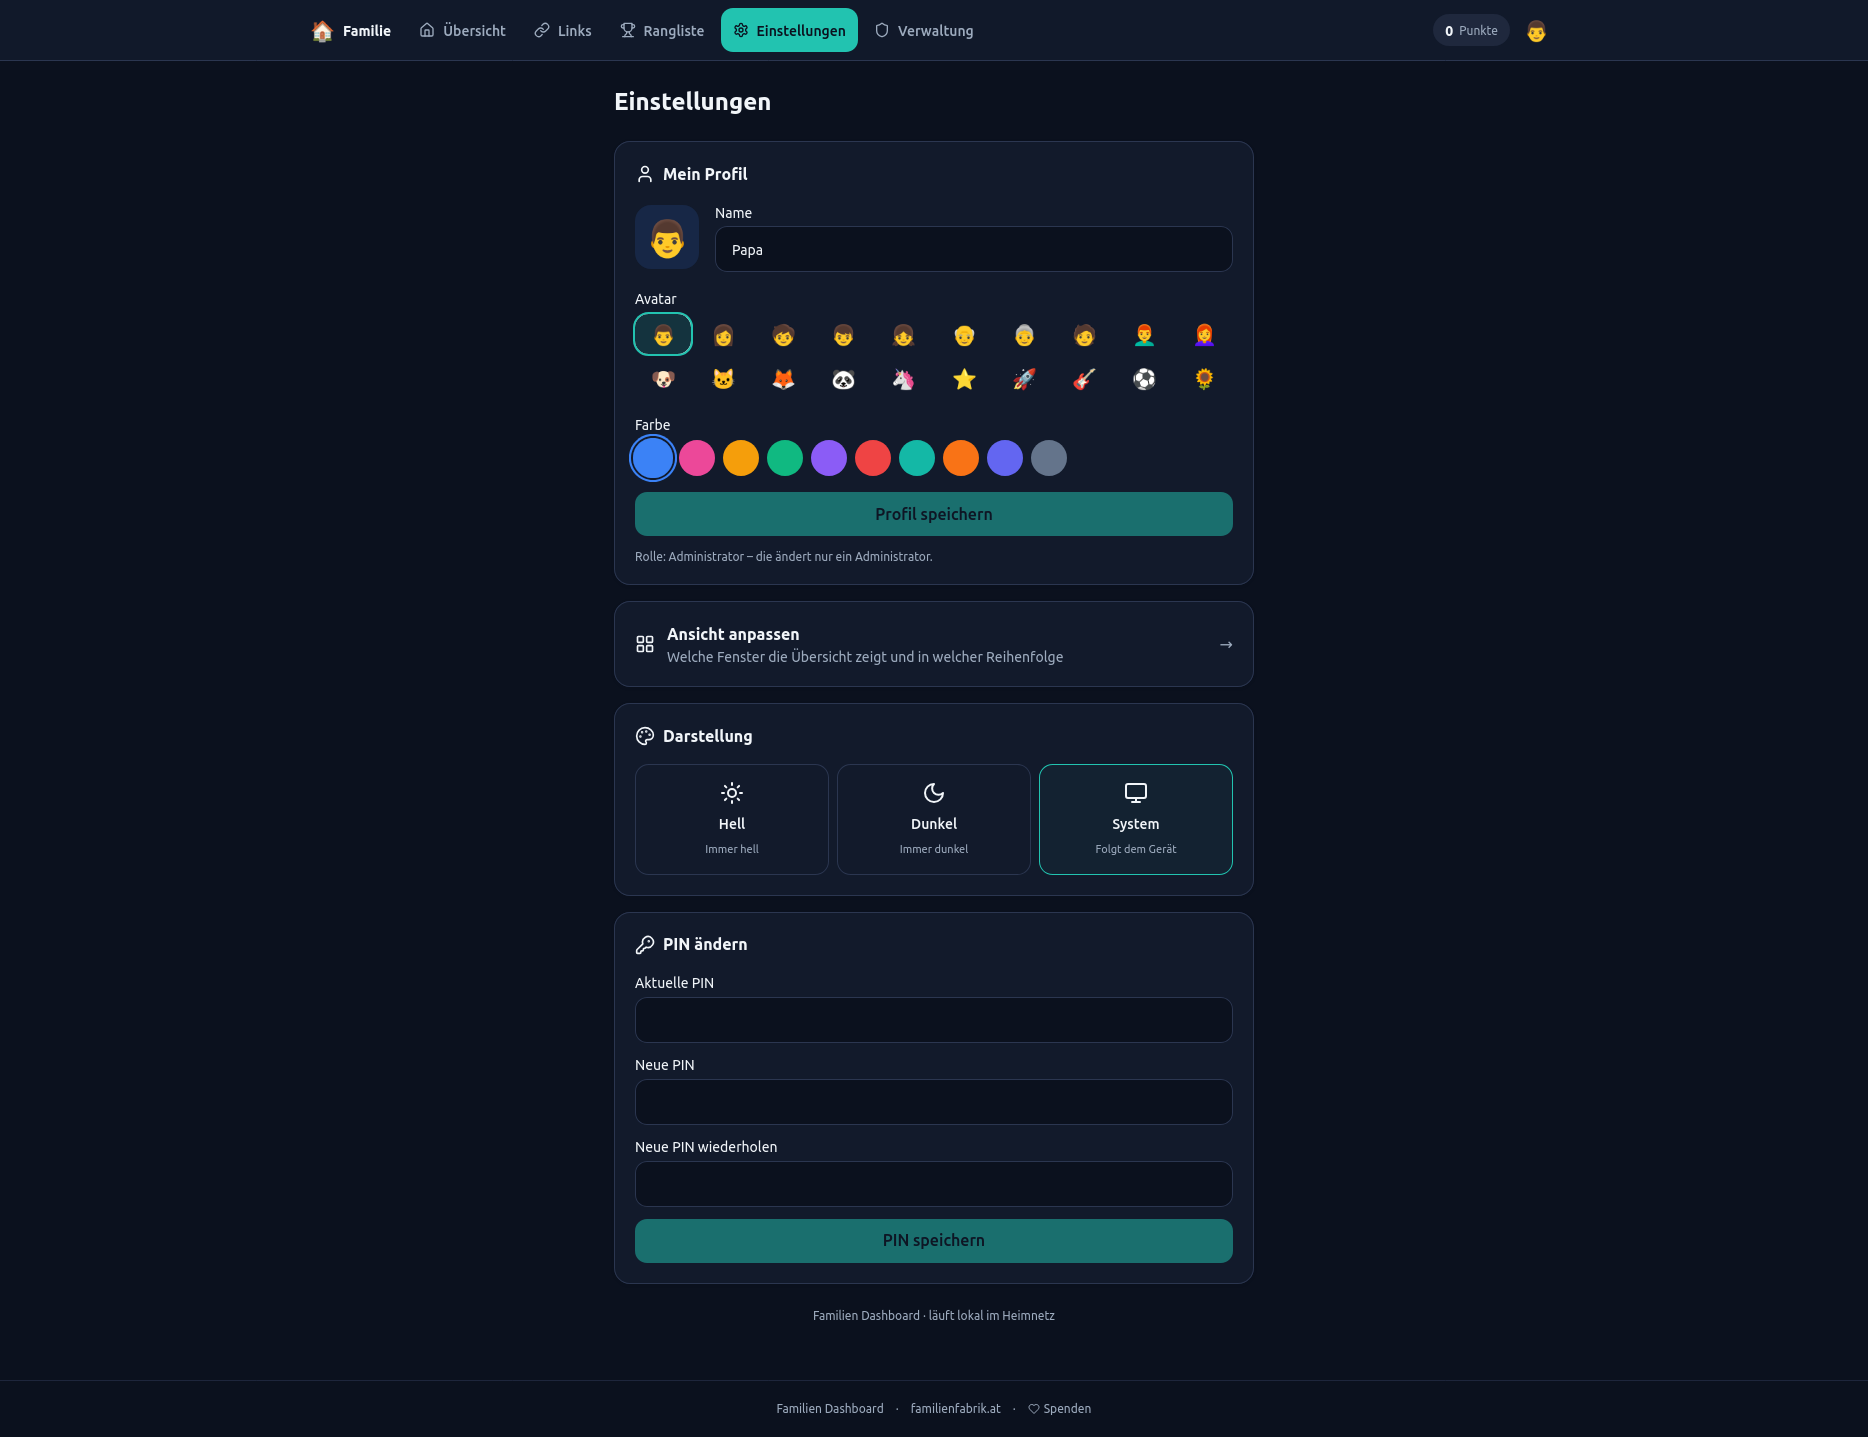
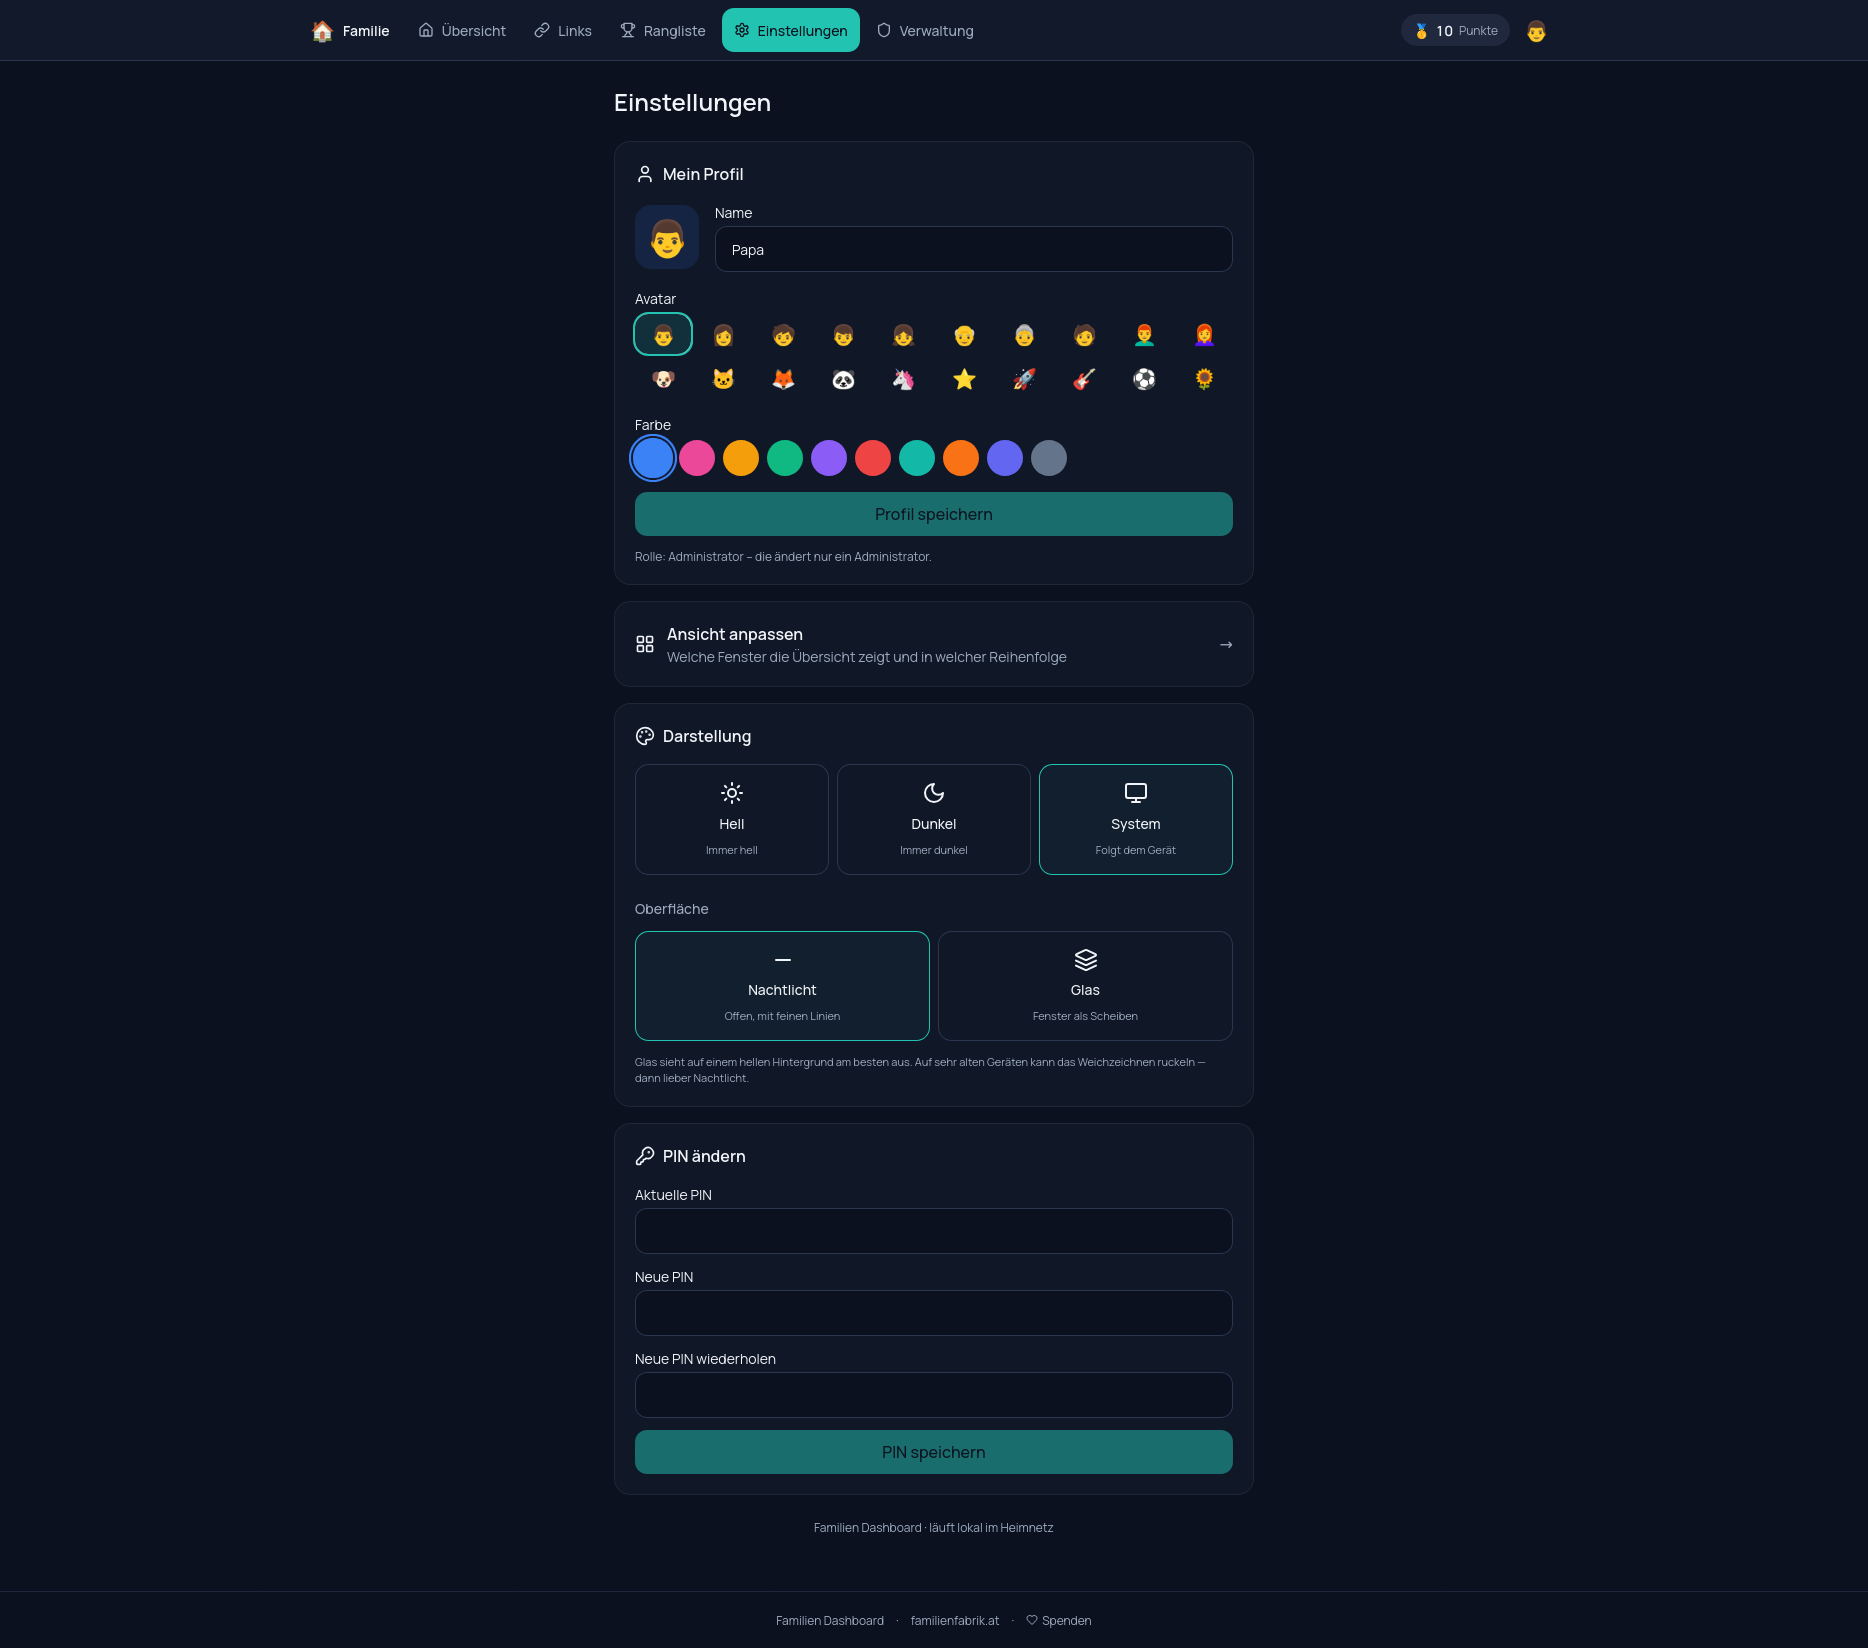
Neue Screenshots im README
Die bisherigen Bilder waren von vorgestern und zeigten die Fassung mit
Kästen und harten Rahmen. Nach dem Umbau der Oberfläche stimmte das nicht
mehr: Wer auf die GitHub-Seite kam, sah etwas anderes als das, was er
herunterlädt.

Sebastian hat fünf neue geliefert. Ich habe jedes einzeln angesehen,
bevor es hier landet — keine IP-Adresse, keine echten Fotos, der
Wetterort steht als "Zuhause" statt als Stadt.

Die Galerie zeigt jetzt die Übersicht auf einem breiten Bildschirm mit
vier Spalten als Aufmacher, dazu dieselbe Ansicht in drei Spalten,
Anmeldung, Rangliste und die Einstellungen mit der Wahl zwischen den
Oberflächen.

diff --git a/README.md b/README.md
@@ -68,9 +68,10 @@ solange es im eigenen, vertrauenswürdigen Netz bleibt.
 
 ## So sieht es aus
 
-Die Startseite. Jeder ordnet sich die Fenster selbst an.
+Die Übersicht auf einem breiten Bildschirm. Wetter mit Regenzeit, Punktestand
+quer über der Seite, darunter die Fenster — jeder ordnet sie sich selbst an.
 
-![Die Startseite mit Aufgaben, Einkaufsliste, Kalender, Links, Notizen, Foto-Rahmen und Geräte-Status](docs/screenshots/Dashboard.png)
+![Die Übersicht mit Aufgaben, Einkaufsliste, Kalender, Countdowns, Notizen, Foto-Rahmen, Links und Geräte-Status](docs/screenshots/Familien_Dashboard.png)
 
 <table>
 <tr>
@@ -87,38 +88,35 @@ Antippen, PIN, fertig. Keine E-Mail, kein Konto.
 
 **Rangliste**
 
-Level, Serien und Abzeichen für erledigte Aufgaben.
+Siegertreppchen, Level, Abzeichen und wer zuletzt was erledigt hat.
 
-<img src="docs/screenshots/Rangliste.png" alt="Rangliste mit Punkten, Leveln und Abzeichen">
+<img src="docs/screenshots/Rangliste.png" alt="Rangliste mit Siegertreppchen, Punkten, Abzeichen und Verlauf">
 
 </td>
 </tr>
 <tr>
 <td width="50%">
 
-**Links**
+**Einstellungen**
 
-Lesezeichen mit Kategorien, angepinnte landen auf der Startseite.
+Name, Avatar, Farbe und PIN ändert jeder selbst. Dazu hell oder dunkel und
+die Wahl zwischen den Oberflächen *Nachtlicht* und *Glas*.
 
-<img src="docs/screenshots/Links.png" alt="Linkverwaltung mit Kategorien und Anpinn-Funktion">
+<img src="docs/screenshots/Einstellungen.png" alt="Einstellungen mit Profil, Avatarauswahl, Darstellung, Oberfläche und PIN-Änderung">
 
 </td>
 <td width="50%">
 
-**Einstellungen**
+**Auf einem schmaleren Bildschirm**
 
-Name, Avatar, Farbe und PIN ändert jeder selbst.
+Dieselbe Übersicht in drei Spalten. Auf dem Handy rutschen die Fenster
+untereinander.
 
-<img src="docs/screenshots/Einstellungen.png" alt="Einstellungen mit Profil, Avatarauswahl, Darstellung und PIN-Änderung">
+<img src="docs/screenshots/Dashboard_Papa.png" alt="Die Übersicht in drei Spalten">
 
 </td>
 </tr>
 </table>
-
-**Verwaltung** — Familienmitglieder anlegen, Punkte gutschreiben oder abziehen,
-wenn sich jemand verklickt hat.
-
-![Adminbereich mit Familienmitgliedern und Punkteverwaltung](docs/screenshots/Admin-Verwaltung.png)
 
 ---
 

diff --git a/docs/screenshots/README.md b/docs/screenshots/README.md
@@ -5,21 +5,19 @@ aufnimmt, sollte die Dateinamen beibehalten.
 
 | Datei | Was drauf ist |
 |---|---|
-| `Dashboard.png` | Die Startseite mit allen Fenstern |
+| `Familien_Dashboard.png` | Die Übersicht auf einem breiten Bildschirm (vier Spalten) |
+| `Dashboard_Papa.png` | Dieselbe Übersicht in drei Spalten |
 | `LogIn.png` | Der Anmeldebildschirm |
-| `Rangliste.png` | Punkte, Level und Abzeichen |
-| `Links.png` | Lesezeichen mit Kategorien |
-| `Einstellungen.png` | Profil, Avatar, Darstellung, PIN |
-| `Admin-Verwaltung.png` | Mitglieder und Punkteverwaltung |
+| `Rangliste.png` | Siegertreppchen, Level, Abzeichen, Verlauf |
+| `Einstellungen.png` | Profil, Darstellung, Oberfläche, PIN |
 
 ## Was nicht drauf sein darf
 
 - **Keine echten Fotos.** Der Fotorahmen muss leer sein.
-- **Keine echten Namen.** Die Beispielbenutzer Papa, Mama und Kind sind in
-  Ordnung.
+- **Keine echten Namen.** Papa, Mama und Kind sind in Ordnung.
 - **Keine IP-Adresse aus dem eigenen Netz.** Betrifft vor allem den
-  Adminbereich mit der Geräteliste und die Adressleiste des Browsers.
-  Deshalb endet `Admin-Verwaltung.png` oberhalb der Geräte.
+  Adminbereich mit der Geräteliste und die Adressleiste des Browsers. Ein
+  Wetterort namens „Zuhause" statt der echten Stadt ist ein guter Trick.
 - **Keine echten Termine und Notizen.**
 
 PNG, bitte unter 500 KB je Bild.

diff --git a/CHANGELOG.md b/CHANGELOG.md
@@ -4,6 +4,16 @@ Alle nennenswerten Änderungen an diesem Projekt.
 Format nach [Keep a Changelog](https://keepachangelog.com/de/1.1.0/),
 Versionierung nach [SemVer](https://semver.org/lang/de/).
 
+## [1.4.3] — 2026-09-09
+
+### Geändert
+
+- **Neue Screenshots im README.** Die alten zeigten noch die Fassung mit
+  Kästen und harten Rahmen — wer auf die Seite kam, sah etwas anderes als das,
+  was er herunterlud. Jetzt zu sehen: die Übersicht auf einem breiten
+  Bildschirm mit vier Spalten, dieselbe in drei Spalten, Anmeldung, Rangliste
+  und die Einstellungen samt Wahl der Oberfläche.
+
 ## [1.4.2] — 2026-09-09
 
 ### Geändert
@@ -244,6 +254,7 @@ Erste öffentliche Fassung.
 - Ein Punkt lässt sich nicht vom Benutzer selbst zurücknehmen, nur von einem
   Administrator
 
+[1.4.3]: https://github.com/bussdee/familien-dashboard-pi/releases/tag/v1.4.3
 [1.4.2]: https://github.com/bussdee/familien-dashboard-pi/releases/tag/v1.4.2
 [1.4.1]: https://github.com/bussdee/familien-dashboard-pi/releases/tag/v1.4.1
 [1.4.0]: https://github.com/bussdee/familien-dashboard-pi/releases/tag/v1.4.0

diff --git a/INSTALL.md b/INSTALL.md
@@ -38,8 +38,8 @@ docker ps && docker compose version
 ### Variante A – Archiv
 
 ```bash
-tar -xzf familien-dashboard-pi-1.4.2.tar.gz
-cd familien-dashboard-pi-1.4.2
+tar -xzf familien-dashboard-pi-1.4.3.tar.gz
+cd familien-dashboard-pi-1.4.3
 ```
 
 ### Variante B – Git
